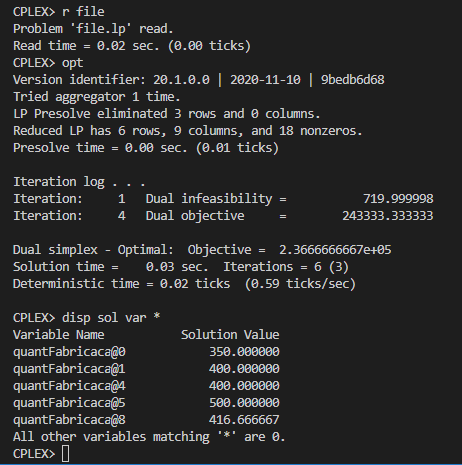
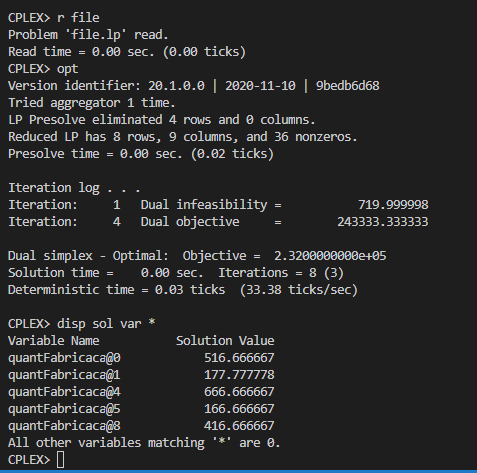
fix: ex3

diff --git a/Lista1/03/README.md b/Lista1/03/README.md
@@ -4,10 +4,6 @@
 
 ## Código ZIMPL  file.zpl
 
-    # incompleto exercicio
-
-    set indice := {1, 2, 3};
-
     # grande, medio e pequeno
     set tamanho := {1, 2, 3};
 
@@ -32,10 +28,7 @@
         <2> capacidadeProducao[2]/somaCapacidadeProducao, 
         <3> capacidadeProducao[3]/somaCapacidadeProducao;
 
-
     var quantFabricacao[matrizTamanhoFilial] >= 0;
-
-    # var total = sum<f, t> in matrizTamanhoFilial : quantFabricacao[f, t];
 
     maximize lucro: sum<f, t> in matrizTamanhoFilial : lucroUnitarioEmReais[t] * quantFabricacao[f, t];
 
@@ -51,9 +44,9 @@
         forall <f> in filial do
             sum <t> in tamanho : quantFabricacao[f, t] <= previsaoVenda[f];
 
-    # subto producaoEquivalenteEmFiliais:
-    #     forall <f> in filial do
-    #        (sum <t> in tamanho : quantFabricacao[f, t]) /  total  == proporcaoProducaoEmFiliais[f] ; 
+    subto producaoEquivalenteEmFiliais:
+        forall <f> in filial do
+            proporcaoProducaoEmFiliais[f] * (sum <ff, p> in matrizTamanhoFilial : quantFabricacao[ff, p])  == sum<p> in tamanho : quantFabricacao[f, p];
 
 ## CLI ZIMPL
 

diff --git a/Lista1/README.md b/Lista1/README.md
@@ -2,13 +2,11 @@
 
 Repositório para resolução das listas de problemas de programação linear.
 
-Modela-se a resolução utilizando-se a linguagem matemática ZIMPL depois compila-se o modelo e resolve-o com o solver CPLEX.
-
 ## Respostas
 
 <!-- lista de itens -->
 * [Resposta 1](01/README.md)
 * [Resposta 2](02/README.md)
-* [Resposta 3 - Incompleto](03/README.md)
+* [Resposta 3](03/README.md)
 * [Resposta 4](04/README.md)
 * [Resposta 5 - Errado](05/README.md)
